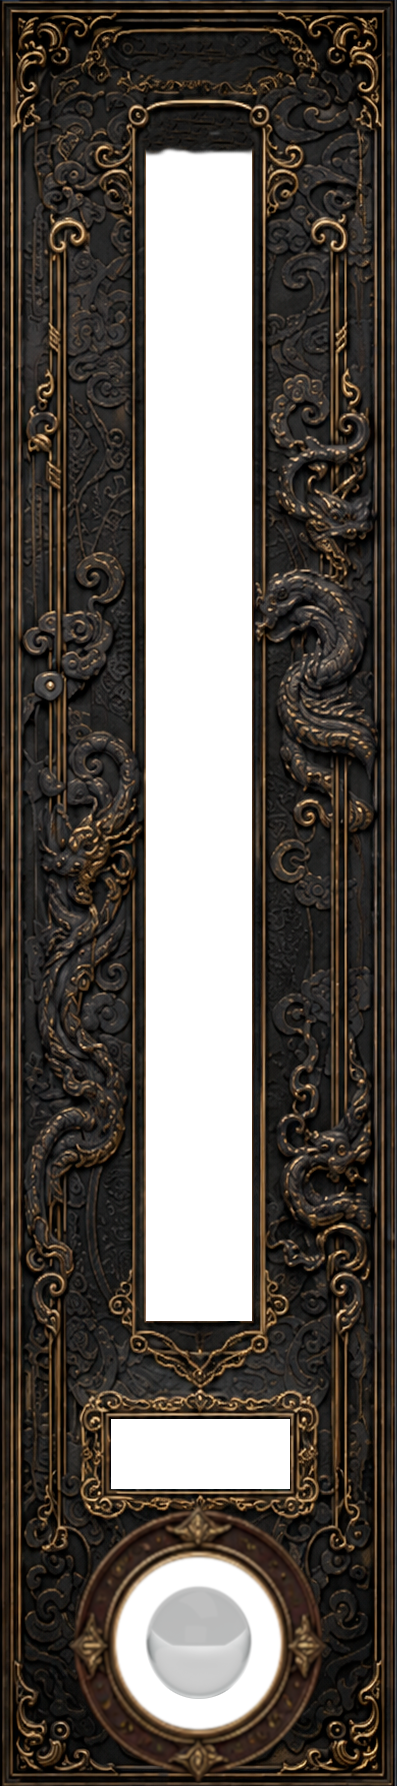
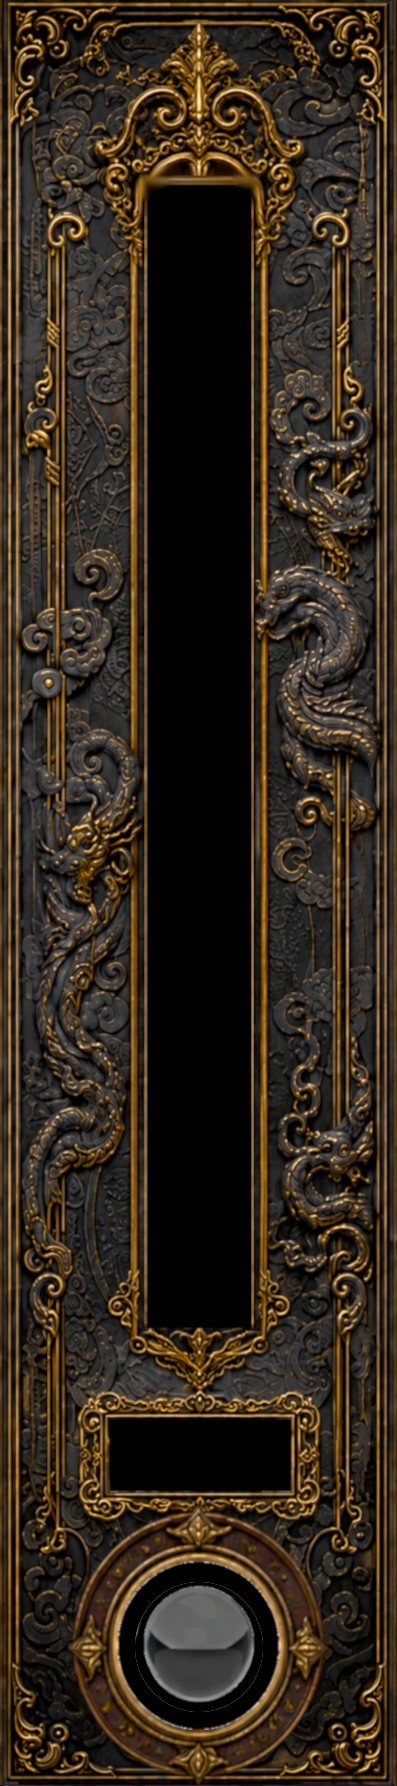
Outline sisu multiplier and fix progress bar background

diff --git a/assets/src/features/sisu/render.ts b/assets/src/features/sisu/render.ts
@@ -139,10 +139,13 @@ function renderSisuControlToContext(
       ctx.stroke();
     }
 
-    ctx.fillStyle = COLORS.hud.textPrimary;
     ctx.font = SISU_MAX_FONT;
     ctx.textAlign = "center";
     ctx.textBaseline = "middle";
+    ctx.strokeStyle = "black";
+    ctx.lineWidth = 5;
+    ctx.strokeText(displayCurrent.toFixed(2), centerX, centerY);
+    ctx.fillStyle = COLORS.hud.textPrimary;
     ctx.fillText(displayCurrent.toFixed(2), centerX, centerY);
   };
 
@@ -246,10 +249,14 @@ class SisuGeneratorModalImpl implements Modal {
     const currentSisu = Math.max(SISU_MIN_MULTIPLIER, displayCurrent);
     const maxBasic = Math.max(SISU_BASE_MAX, toFiniteBigNumNumber(snapshot.state.sisu.max_basic, SISU_BASE_MAX));
 
-    drawCtx.fillStyle = COLORS.sisu.blue;
+    const multiplierText = formatSisuMultiplier(currentSisu);
     drawCtx.font = SISU_CURRENT_FONT;
     drawCtx.textAlign = "center";
-    drawCtx.fillText(formatSisuMultiplier(currentSisu), modalX + modalWidth / 2, modalY + 100);
+    drawCtx.strokeStyle = "black";
+    drawCtx.lineWidth = 4;
+    drawCtx.strokeText(multiplierText, modalX + modalWidth / 2, modalY + 100);
+    drawCtx.fillStyle = COLORS.sisu.blue;
+    drawCtx.fillText(multiplierText, modalX + modalWidth / 2, modalY + 100);
 
     this.refillRects.length = 0;
     const refillWidth = 132;
@@ -274,14 +281,14 @@ class SisuGeneratorModalImpl implements Modal {
     }
 
     const maxUpgradeLevel = snapshot.state.sisu.max_upgrade_level || 0;
+    const maxSisuText = `Max Sisu: ${formatSisuMultiplier(maxBasic)} (Level ${formatCountRatio(maxUpgradeLevel, SISU_MAX_UPGRADE_LEVEL)})`;
     drawCtx.fillStyle = COLORS.hud.textPrimary;
     drawCtx.font = SISU_MAX_FONT;
     drawCtx.textAlign = "left";
-    drawCtx.fillText(
-      `Max Sisu: ${formatSisuMultiplier(maxBasic)} (Level ${formatCountRatio(maxUpgradeLevel, SISU_MAX_UPGRADE_LEVEL)})`,
-      modalX + 38,
-      modalY + 272
-    );
+    drawCtx.strokeStyle = "black";
+    drawCtx.lineWidth = 3;
+    drawCtx.strokeText(maxSisuText, modalX + 38, modalY + 272);
+    drawCtx.fillText(maxSisuText, modalX + 38, modalY + 272);
 
     this.upgradeRect = {
       x: modalX + modalWidth - 220,
@@ -457,5 +464,9 @@ function drawSisuRefillControl(
   ctx.textBaseline = "middle";
   ctx.fillText(label, circleX, rect.y + 57);
   ctx.font = TINY_TEXT_FONT;
-  ctx.fillText(formatSisuMultiplier(target), circleX, rect.y + 76);
+  const targetText = formatSisuMultiplier(target);
+  ctx.strokeStyle = "black";
+  ctx.lineWidth = 2;
+  ctx.strokeText(targetText, circleX, rect.y + 76);
+  ctx.fillText(targetText, circleX, rect.y + 76);
 }
